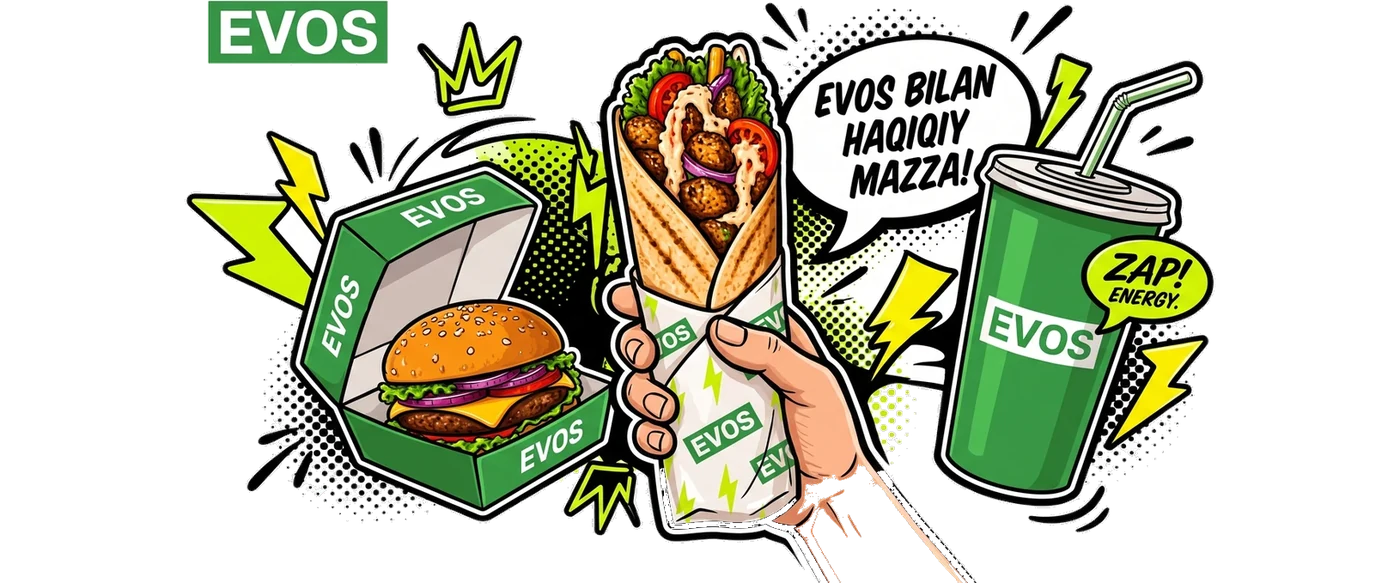
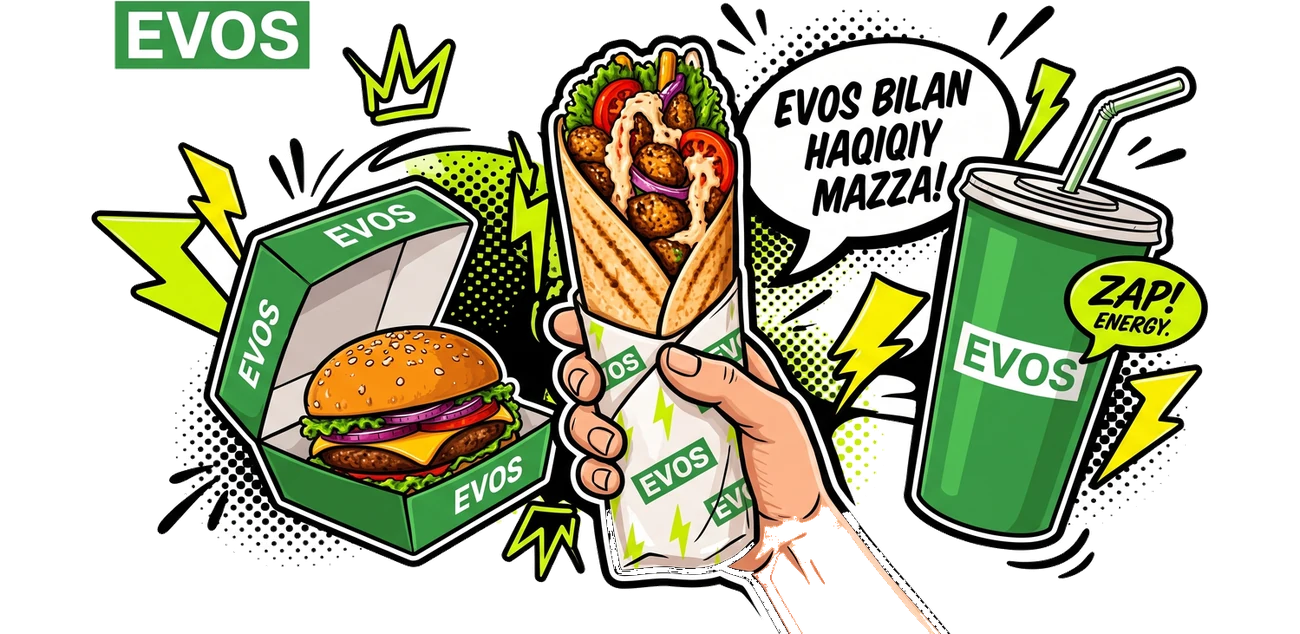
Баннеры чуть крупнее
Выравнивание до пропорции feedup мельчило все пятеро до 156 pt. Поля у
четырёх новых уменьшены до 2.05:1 — они рисуются 182 pt против 156 у feedup,
разница почти не читается, и по-прежнему ничего не обрезано. Кадр подогнан
под новую высоту.

diff --git a/apps/mobile/src/components/PromoCarousel.tsx b/apps/mobile/src/components/PromoCarousel.tsx
@@ -101,10 +101,16 @@ export function PromoCarousel({ category }: Props) {
                   вдвое ниже прочих. cover это выравнивал, но резал рисунок —
                   у feedup уходил край лаваша.
 
-                  Поэтому выравнивание сделано в самих файлах: остальным
-                  четырём добавлены прозрачные поля по бокам до пропорции
-                  feedup. Теперь все рисуются одной высотой и ничего не
-                  обрезается.
+                  Поэтому выравнивание сделано в самих файлах: четырём новым
+                  добавлены прозрачные поля по бокам. Не до пропорции feedup —
+                  тогда все мельчали до 156 pt, — а до 2.05:1. Они рисуются
+                  182 pt против 156 у feedup: разница почти не читается, и
+                  ничего не обрезано.
+
+                  Полностью это чинится только перерисовкой feedup в
+                  пропорциях остальных четырёх — он единственный 2.4:1, и
+                  сложить его в кадр повыше нельзя: рисунок цельный, элементы
+                  соприкасаются и по отдельности не переставляются.
                 */}
                 <Image source={v.img} style={styles.venueImg} resizeMode="contain" fadeDuration={0} />
               </View>
@@ -151,9 +157,8 @@ const styles = StyleSheet.create({
   },
   heroTerms: { fontFamily: font.semibold, fontSize: 14.5, color: 'rgba(255,255,255,0.65)', textAlign: 'center' },
   venueImgWrap: { paddingHorizontal: 8, paddingTop: 4 },
-  // 162, а не 218: после выравнивания пропорций баннеры рисуются высотой
-  // ~156, и прежний кадр оставлял по 30 pt пустоты сверху и снизу
-  venueImg: { height: 162, width: '100%' },
+  // под самый высокий из баннеров (182 pt) плюс немного воздуха
+  venueImg: { height: 188, width: '100%' },
   venueText: { alignItems: 'center', gap: 4, paddingHorizontal: 12, marginTop: 12 },
   venueTitle: { fontFamily: font.extrabold, fontSize: 20, letterSpacing: -0.2, color: '#FFFFFF', textAlign: 'center' },
   venueTerms: { fontFamily: font.semibold, fontSize: 13, color: 'rgba(255,255,255,0.6)', textAlign: 'center' },
